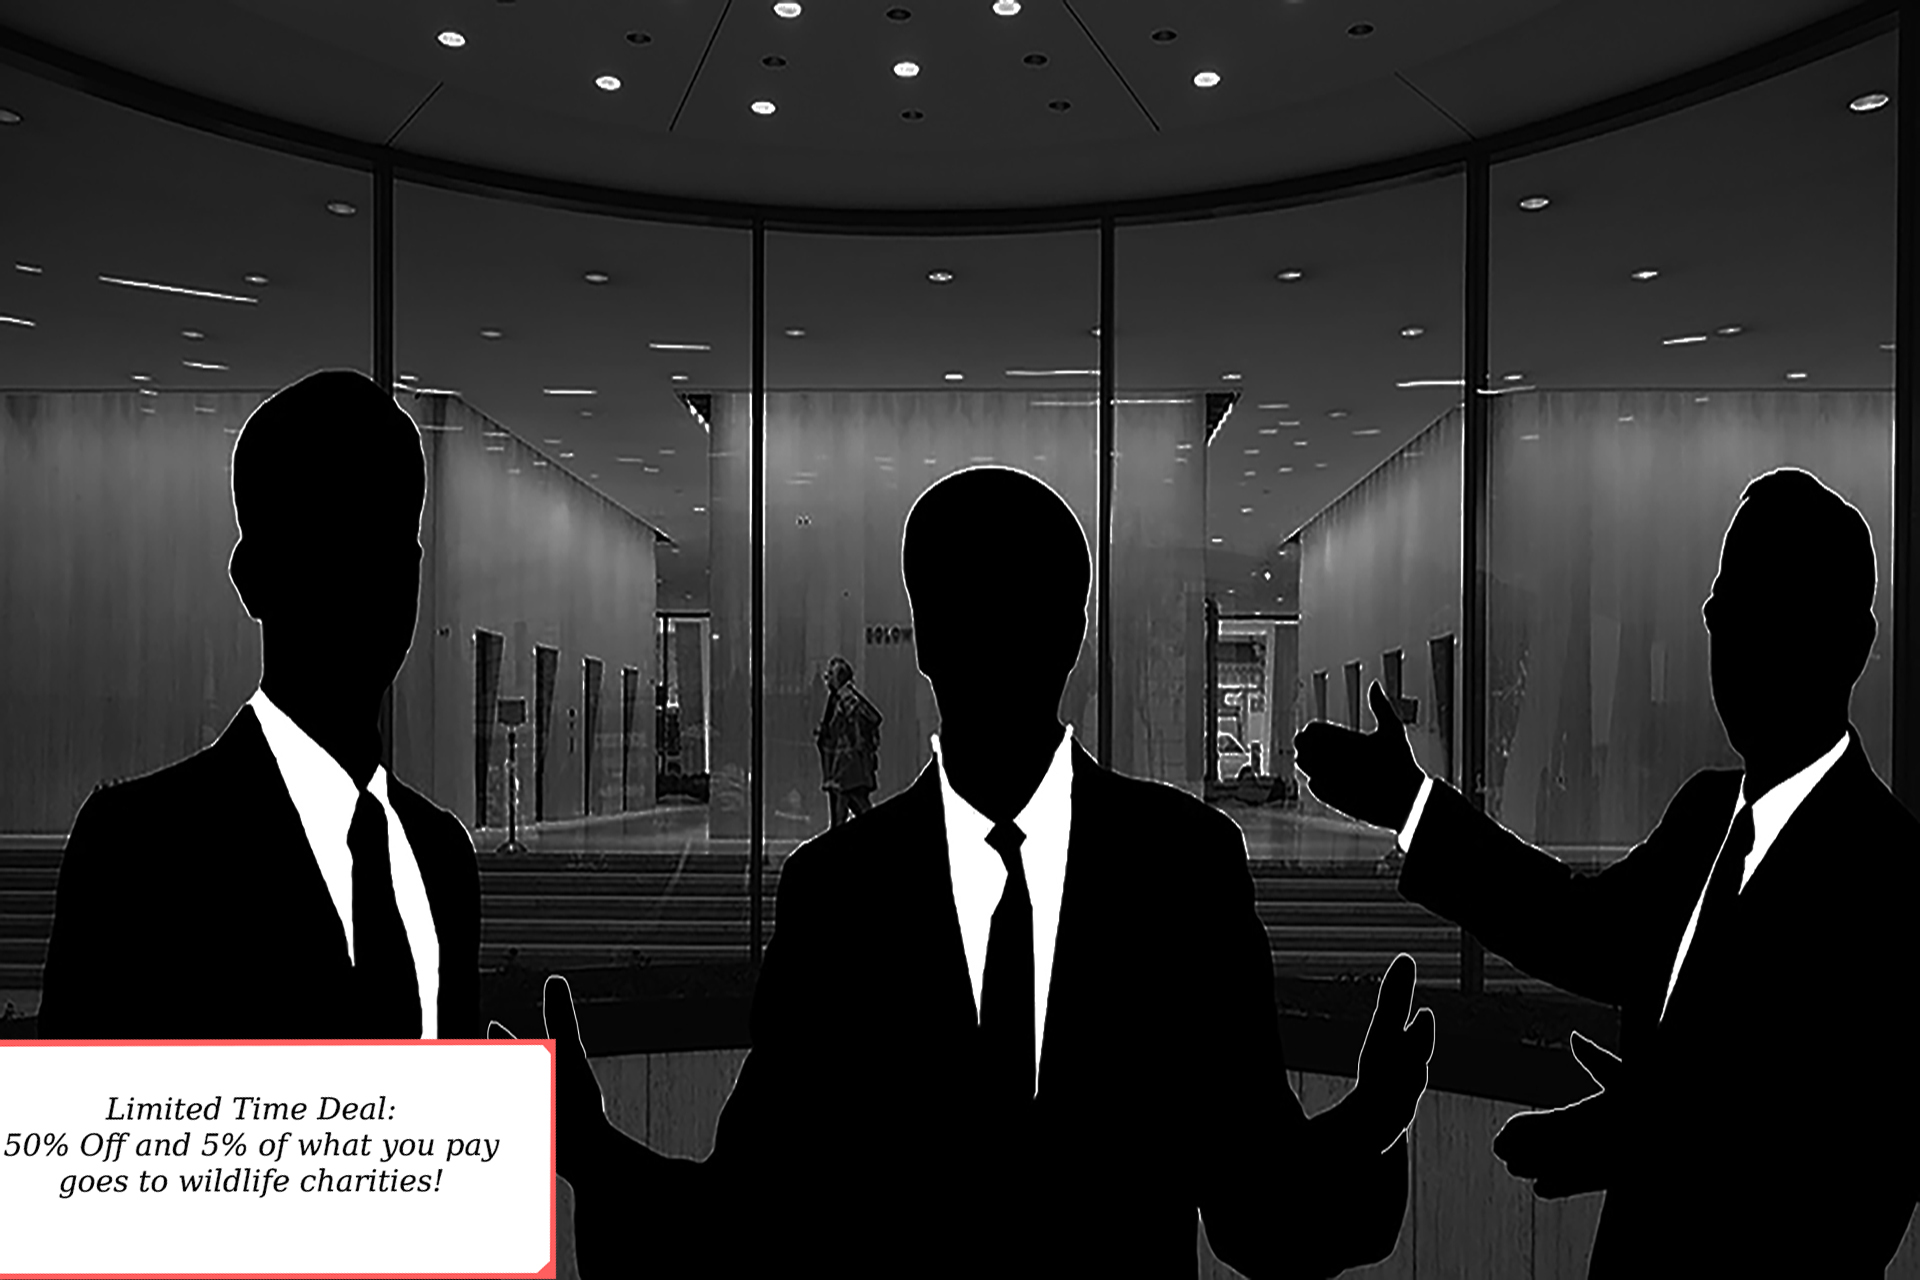
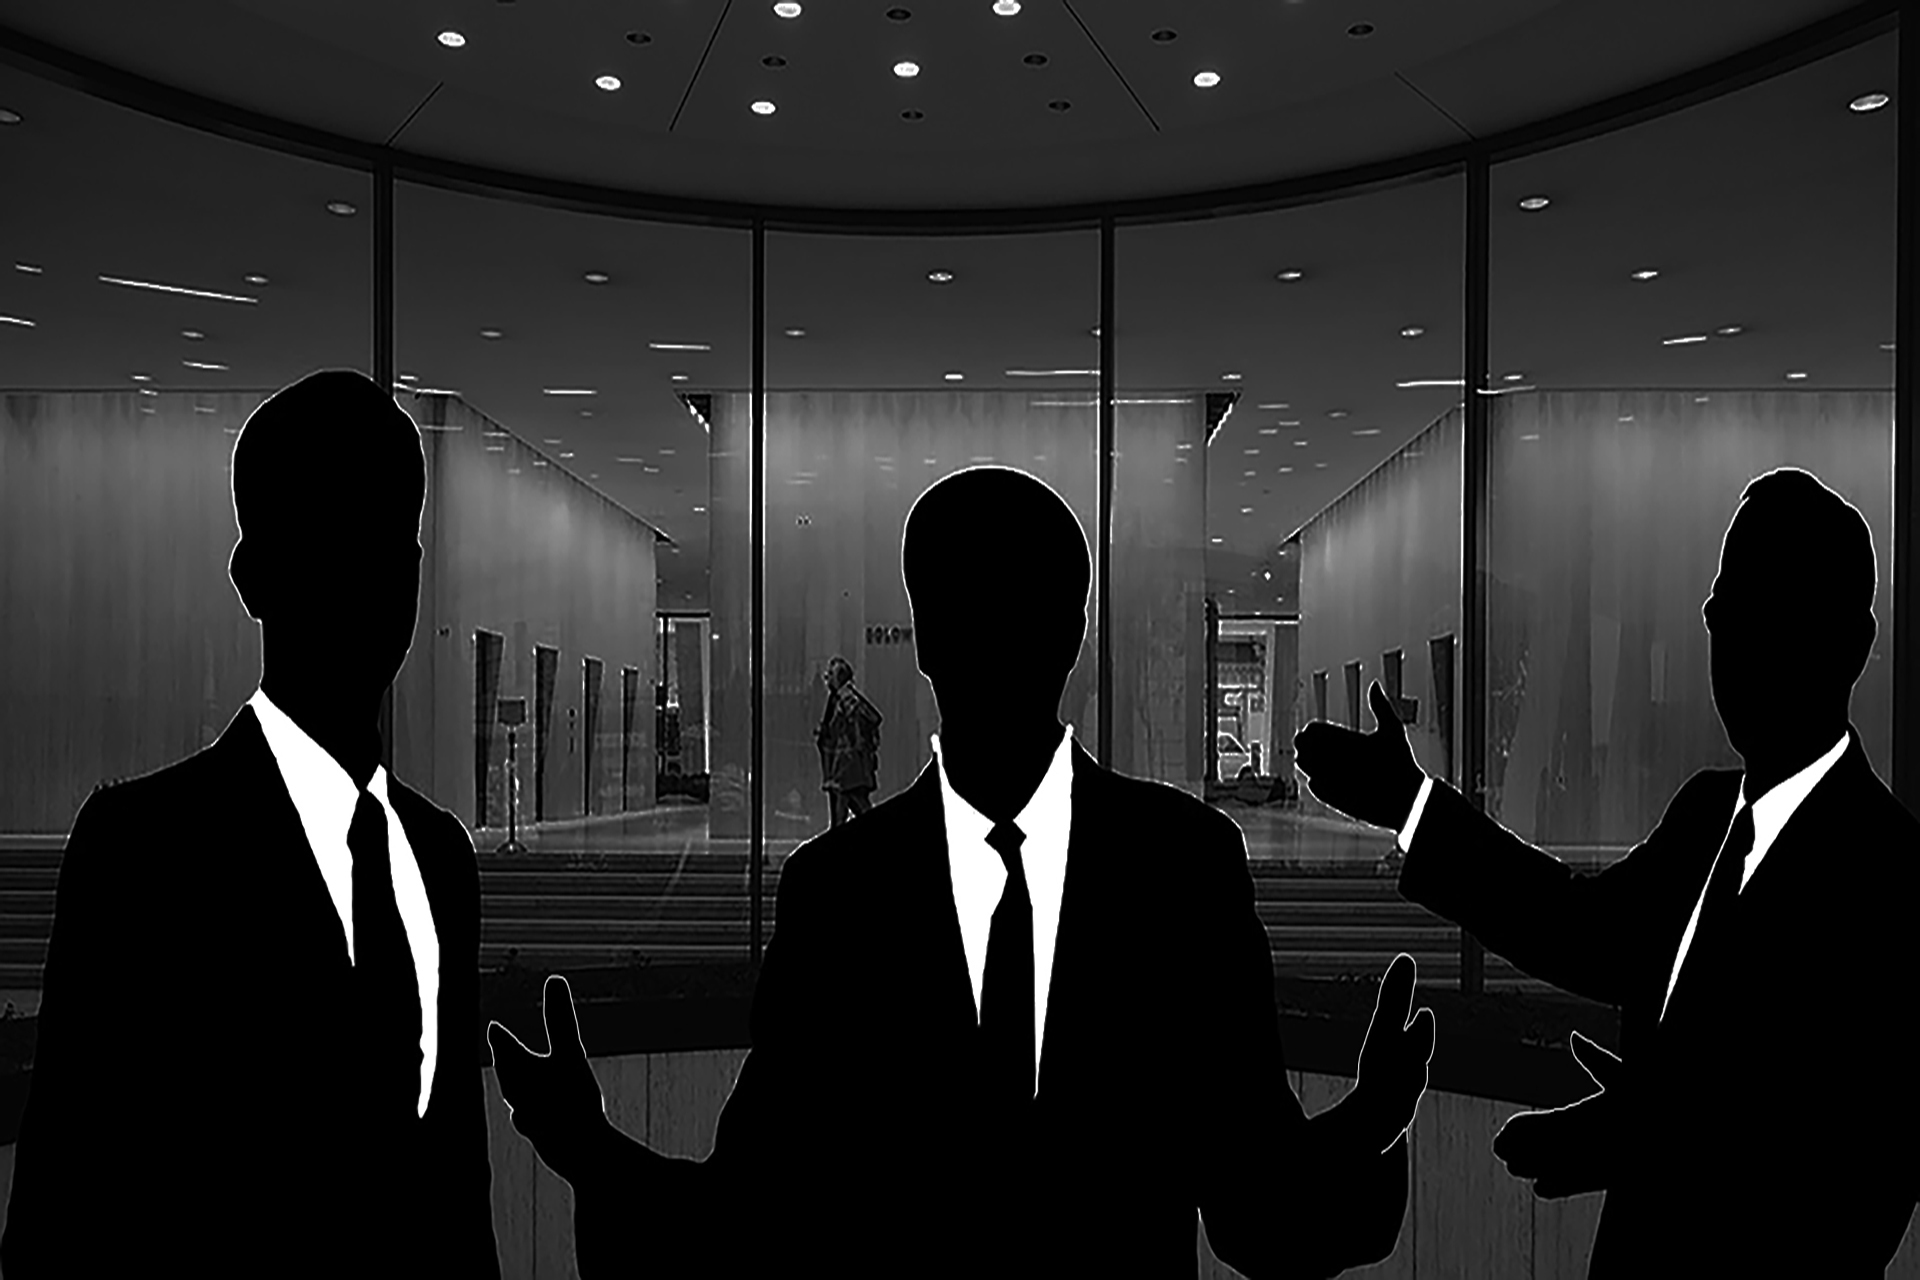
Updated sales to make it more responsive and added a fixed image as well with it's own corresponding coordinates.

Changed region(s): [[0.0, 0.8125, 0.3125, 1.0]]

diff --git a/index.html b/index.html
@@ -90,6 +90,7 @@
 
 
     <div class="container homepage">
+    <img src="images/deal.png" id="deal">
     <img src="images/logo.png" title="Web Solutions LLC logo" alt="Web Solutions LLC" id="logo">
       <h2>Who We Are</h2>
       <hr>
@@ -165,7 +166,7 @@
             <i class="fa fa-shopping-cart fa-stack-1x fa-inverse"></i>
           </span>
             <h3>E-Commerce</h3>
-            <p>Our E-Commerce Package starts at <strong>$150/hr(limited time deal</strong> as well. It all depends on how big and complex the site will be and how much customer traffic you expect to get. Includes logo design and domain name.</p>
+            <p>Our E-Commerce Package starts at <strong>$150/hr(limited time deal)</strong>, as well. It all depends on how big and complex the site will be and how much customer traffic you expect to get. Includes logo design and domain name.</p>
             </div>
           </div>
         </div>

diff --git a/css/custom.css b/css/custom.css
@@ -32,6 +32,12 @@ ul.nav{
 	opacity:.9;
 }
 
+#deal{
+	position:fixed;
+	left:15px;
+	top:200px;
+	width:400px;
+}
 #logo{
 	padding-bottom: 40px;
 }
